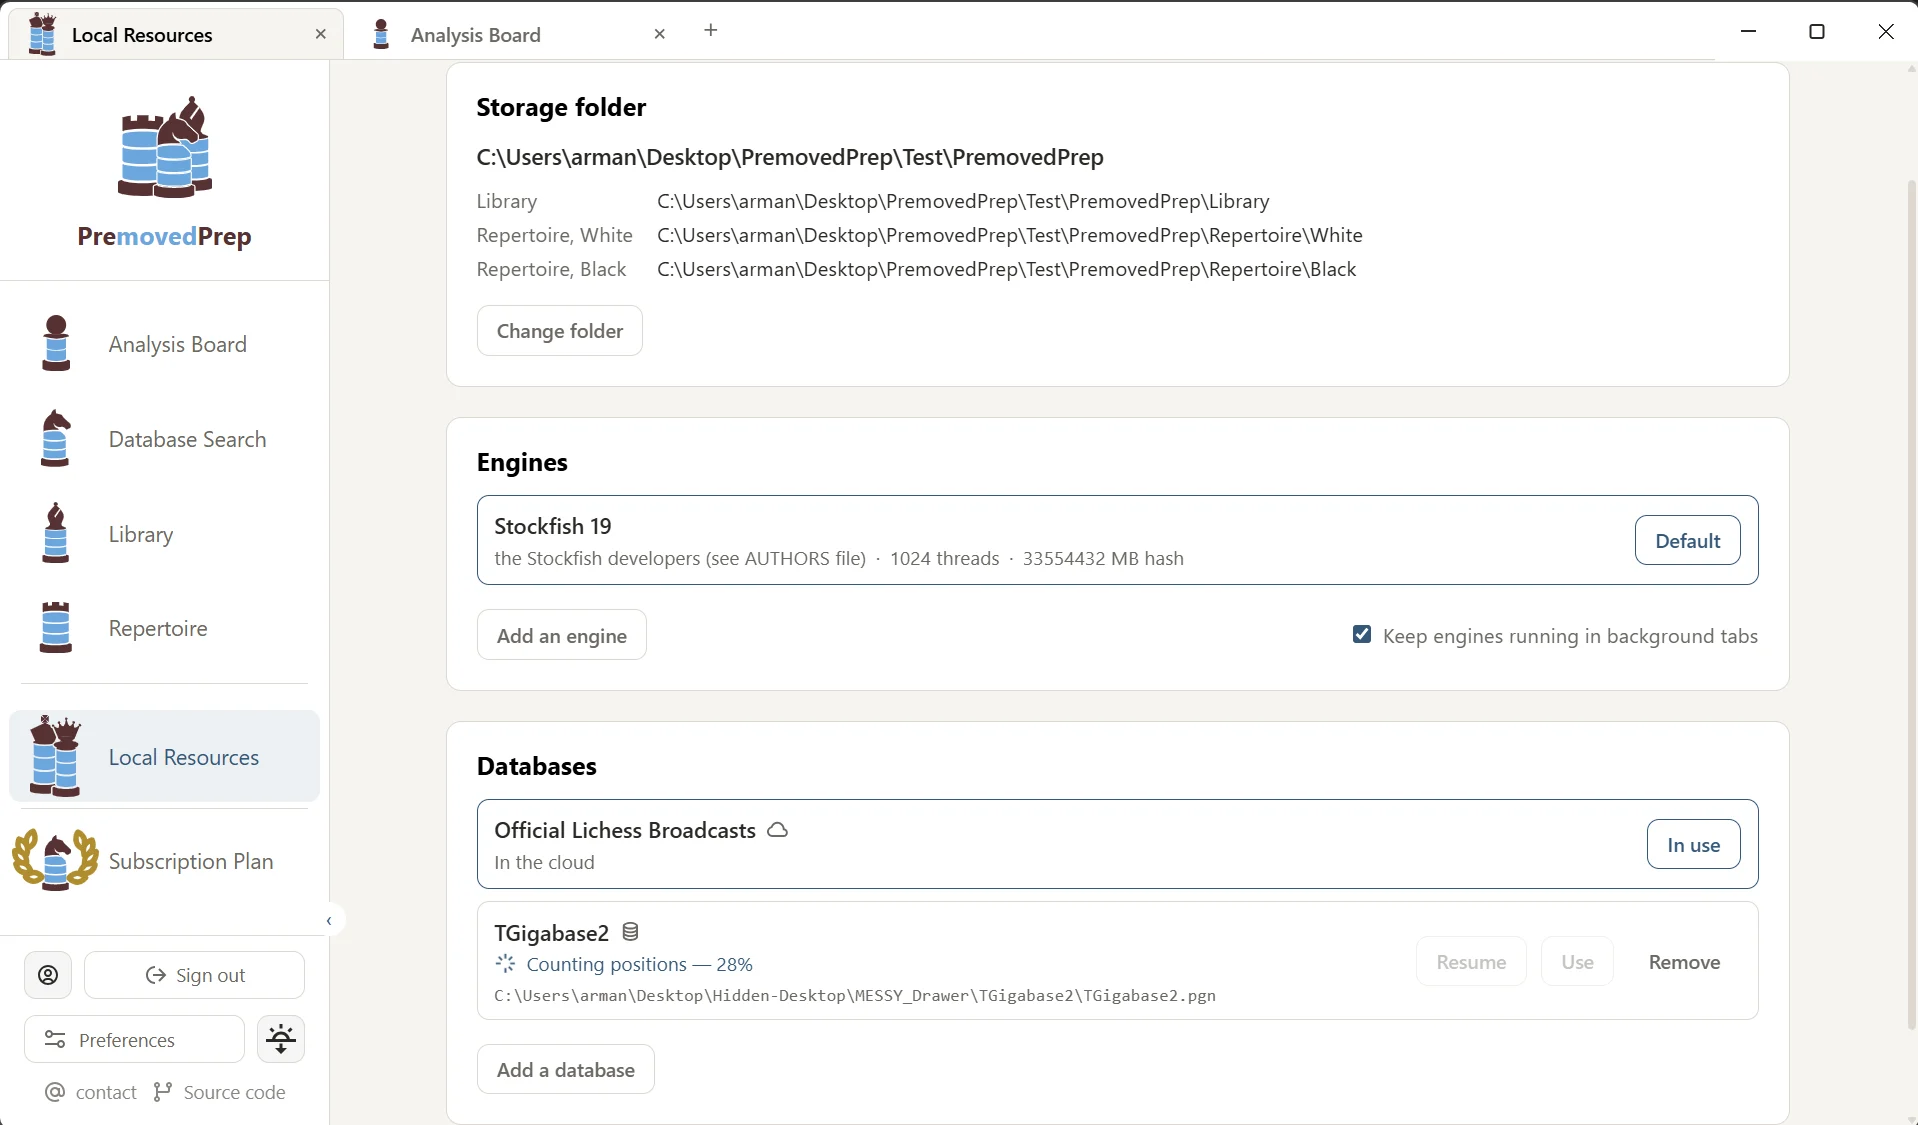
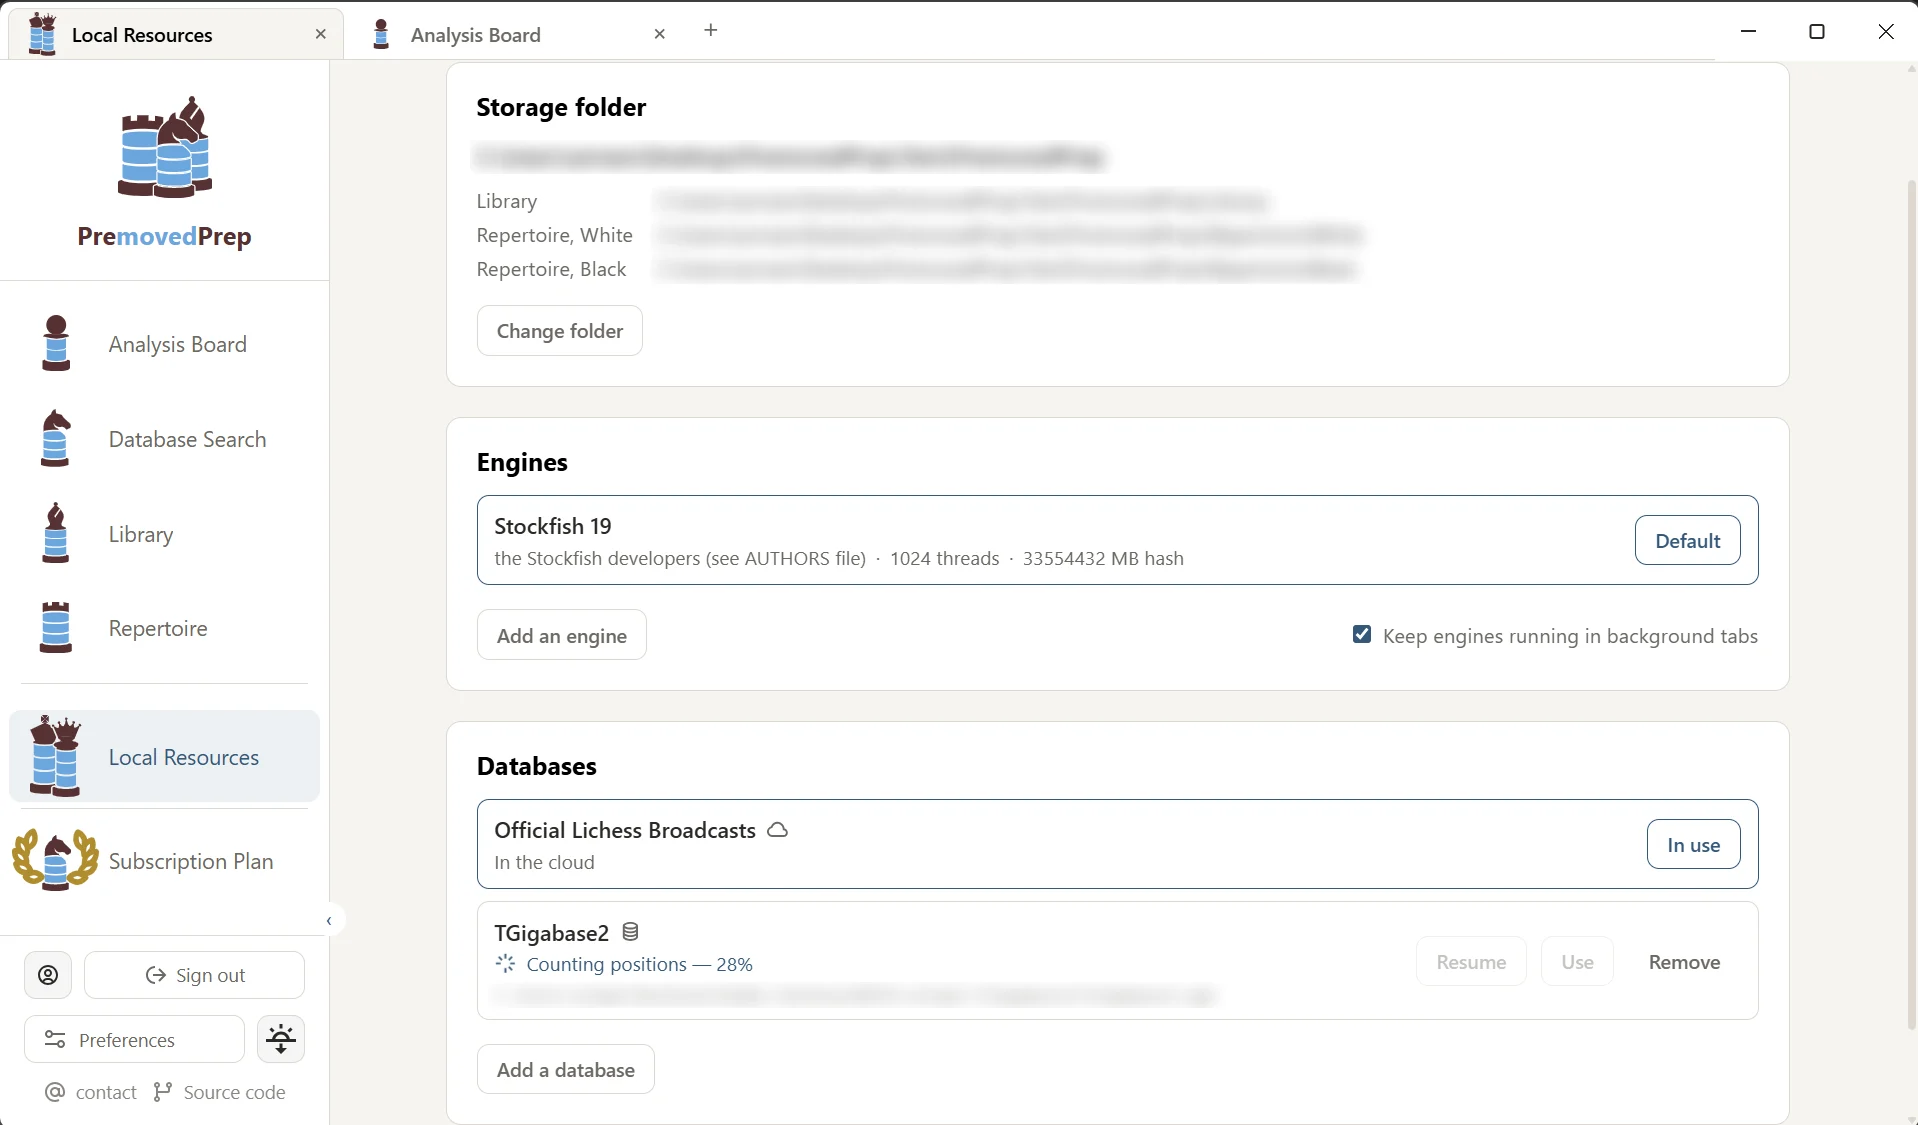
update app-page

diff --git a/src/app/features/app/app-page.component.html b/src/app/features/app/app-page.component.html
@@ -69,12 +69,6 @@
 						The Desktop App with all its features, in a single subscription plan. A simple but powerful tool for chess
 						analysis, exploring database games, studying opponents and building repertoires.
 					</p>
-					<p class="price">
-						<strong>{{ monthly() }}</strong> / month <span class="or">or</span> <strong>{{ yearly() }}</strong> / year
-						@if (saving(); as percent) {
-							<span class="save">save {{ percent }}%</span>
-						}
-					</p>
 				</div>
 			</div>
 
@@ -87,7 +81,7 @@
 					</svg>
 					<div>
 						<h3>This website stays free</h3>
-						<p>All functions and featuresavailable on premovedprep.com are free to use and only require a registered account.</p>
+						<p>All functions and features available on premovedprep.com are free to use and only require a registered account.</p>
 					</div>
 				</div>
 				<div class="fact">
@@ -99,8 +93,8 @@
 					<div>
 						<h3>The plan lives in the app</h3>
 						<p>
-							Install the Desktop App, sign in, and open <strong>Subscription Plan</strong>: the two-week free trial starts
-							there with one click, no bank details required.
+							Install the Desktop App, sign in, and open <strong>Subscription Plan</strong>: 
+							Test it out and start your 2 week free trial with a single click, no bank details required.
 						</p>
 					</div>
 				</div>
